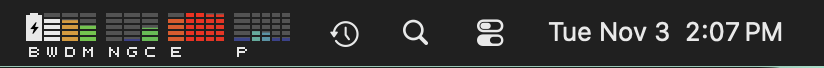
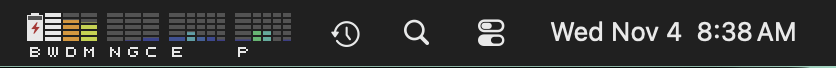
Retake the README pictures with the battery below full, so the battery bar shows its outline

diff --git a/README.md b/README.md
@@ -50,7 +50,7 @@ Rest the pointer on a bar for a second and its reading shows below the menu bar.
 
 * **Memory:** memory in use, with free, used and swapped memory and the total.
 
-<img src="screenshots/hover-memory.png" width="220" alt="Memory usage label">
+<img src="screenshots/hover-memory.png" width="223" alt="Memory usage label">
 
 * **CPU:** overall CPU use, with the efficiency and performance cores' use.
 
